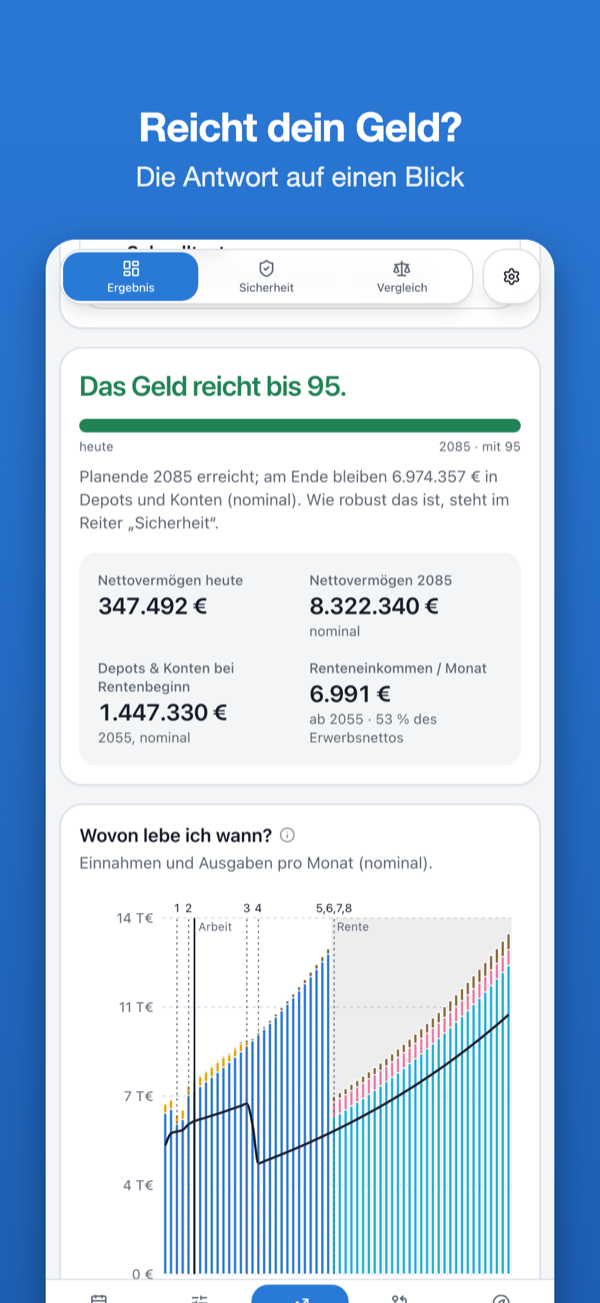
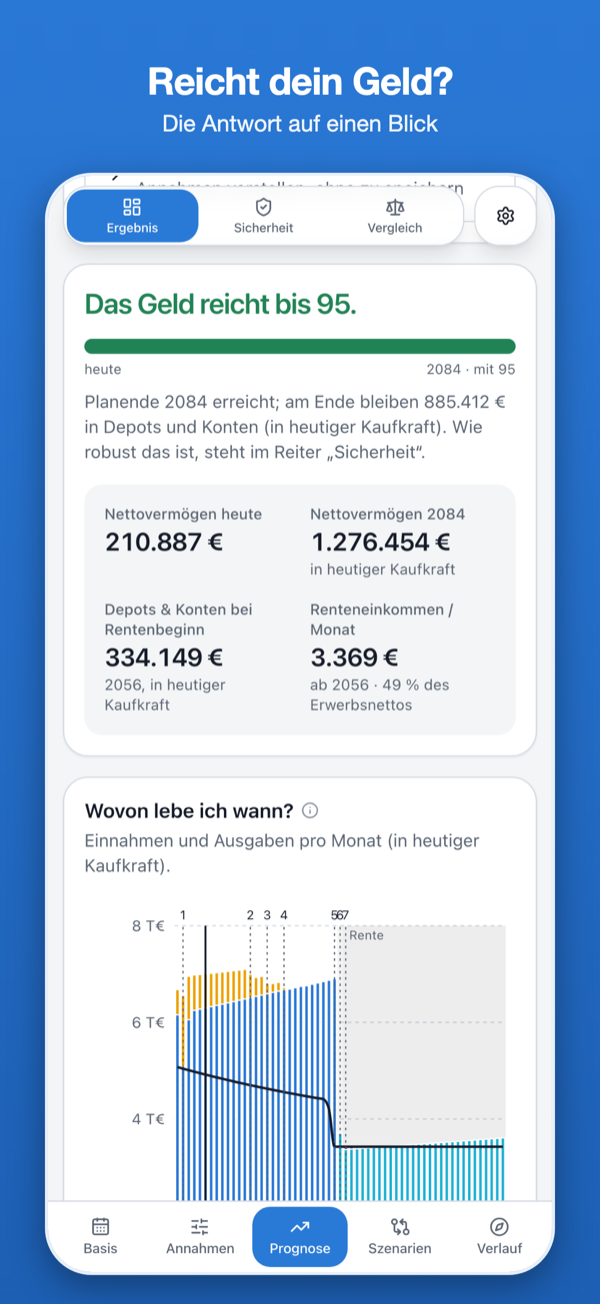
Neue Bildschirmfotos: Ergebnis, Szenarien, Vergleich

diff --git a/index.html b/index.html
@@ -44,8 +44,8 @@
     <div class="wrap">
       <div class="shots">
         <img src="bilder/ergebnis.png" alt="Ergebnis der Prognose: Das Geld reicht bis 95." width="600" height="1304">
-        <img src="bilder/lebensgrafik.png" alt="Lebensgrafik: wovon du in welchem Lebensabschnitt lebst" width="600" height="1304">
-        <img src="bilder/szenarien.png" alt="Szenarien: Kind, Hauskauf, Teilzeit, Jobwechsel" width="600" height="1304">
+        <img src="bilder/szenarien.png" alt="Szenarien: früher aufhören, Auszeit, mehr sparen" width="600" height="1304">
+        <img src="bilder/vergleich.png" alt="Szenarien im Vergleich: Jahr für Jahr gegen den Plan" width="600" height="1304">
       </div>
 
       <div class="features">
